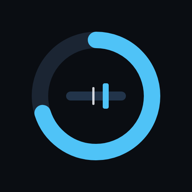
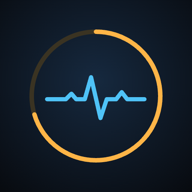
Icône cœur + anneau jaune, accueil libre en orientation, numéro de build
- Icône : ligne de battement de cœur bleue dans un anneau partiel jaune
  (SVG + PNG 192, 512, maskable).
- Accueil : lock('any') au démarrage et au retour de séance, pour ne pas
  rester verrouillé en paysage par l'ancien manifeste d'une appli installée.
- Numéro de build discret en bas de l'accueil (src/version.js, tamponné par
  npm run stamp avant chaque commit).

diff --git a/src/app.js b/src/app.js
@@ -11,6 +11,7 @@ import { createActivityFilter } from './activity.js';
 import { createSession } from './session.js';
 import { createStore } from './store.js';
 import { exportFile } from './export.js';
+import { BUILD, formatBuild } from './version.js';
 
 const DRAFT_EVERY_MS = 5000; // backup copy of the running session
 
@@ -101,7 +102,16 @@ async function lockLandscape() {
     await orientation?.lock?.('landscape');
   } catch { /* desktop browser or refused: the rotate hint shows in portrait */ }
 }
-const unlockOrientation = () => { try { window.screen.orientation?.unlock?.(); } catch { /* unsupported */ } };
+// Back to free rotation for the start screen. unlock() alone would fall back to the manifest's orientation,
+// which an already installed app may still carry as "landscape"; lock('any') overrides it explicitly.
+async function freeOrientation() {
+  const orientation = window.screen.orientation;
+  try {
+    await orientation?.lock?.('any');
+  } catch {
+    try { orientation?.unlock?.(); } catch { /* unsupported */ }
+  }
+}
 
 // ---------- Screens ----------
 const startEl = document.getElementById('start');
@@ -129,7 +139,7 @@ function goHome() {
   snapshot = {};
   clearInterval(draftTimer);
   keepAwake.stop();
-  unlockOrientation();
+  freeOrientation();
   source?.disconnect();
   source = null;
   screenEl.hidden = true;
@@ -281,6 +291,8 @@ if (isBleAvailable()) {
 // Simulator buttons: development only (?dev in the address).
 if (new URLSearchParams(location.search).has('dev')) document.getElementById('sim-choice').hidden = false;
 showLastSession();
+document.getElementById('build').textContent = formatBuild(BUILD);
+freeOrientation(); // the start screen follows the phone, even if the installed manifest still says landscape
 
 document.querySelectorAll('[data-sim]').forEach((btn) => btn.addEventListener('click', () => {
   startSimulator(btn.dataset.sim);

diff --git a/src/ui/styles.css b/src/ui/styles.css
@@ -155,7 +155,9 @@ html, body {
 .btn-connect svg { width: 1.1em; height: 1.1em; }
 .btn-connect:disabled { background: var(--panel); color: var(--muted); box-shadow: none; cursor: default; }
 .start-msg { margin: 0; min-height: 1.3em; max-width: 80vw; font-size: calc(4.2 * var(--u)); color: var(--warn); }
-.last-session { position: absolute; left: 0; right: 0; bottom: calc(4 * var(--u)); margin: 0; padding: 0 calc(4 * var(--u)); text-wrap: balance; min-height: 1.3em; font-size: calc(4.4 * var(--u)); color: var(--muted); font-variant-numeric: tabular-nums; }
+.last-session { position: absolute; left: 0; right: 0; bottom: calc(7 * var(--u)); margin: 0; padding: 0 calc(4 * var(--u)); text-wrap: balance; min-height: 1.3em; font-size: calc(4.4 * var(--u)); color: var(--muted); font-variant-numeric: tabular-nums; }
+.build { position: absolute; left: 0; right: 0; bottom: max(calc(2 * var(--u)), env(safe-area-inset-bottom)); margin: 0;
+  font-size: calc(2.9 * var(--u)); color: var(--muted); opacity: .55; font-variant-numeric: tabular-nums; }
 .last-session b { color: var(--text); font-weight: 600; }
 .sim-choice { position: fixed; top: calc(4 * var(--u)); right: max(calc(4 * var(--u)), env(safe-area-inset-right)); display: flex; gap: calc(1.5 * var(--u));
   align-items: center; font-size: calc(3.6 * var(--u)); color: var(--muted); }

diff --git a/scripts/stamp-version.js b/scripts/stamp-version.js
@@ -1,0 +1,13 @@
+// Writes src/version.js: build number = number of the commit about to be made, plus the current time.
+// Run it just before each commit: node scripts/stamp-version.js   (npm run stamp)
+import { execSync } from 'node:child_process';
+import { readFileSync, writeFileSync } from 'node:fs';
+
+const file = new URL('../src/version.js', import.meta.url);
+let number = 1;
+try { number = Number(execSync('git rev-list --count HEAD', { encoding: 'utf8' }).trim()) + 1; } catch { /* first commit */ }
+
+const stamp = `export const BUILD = { number: ${number}, at: '${new Date().toISOString()}' };`;
+const src = readFileSync(file, 'utf8').replace(/^export const BUILD = .*;$/m, stamp);
+writeFileSync(file, src);
+console.log(`version.js : ${stamp}`);

diff --git a/src/version.js b/src/version.js
@@ -1,0 +1,11 @@
+// Build stamp shown discreetly on the start screen, to know which version runs on the phone.
+// Rewritten by scripts/stamp-version.js before each commit: do not edit by hand.
+export const BUILD = { number: 38, at: '2026-11-15T21:10:20.478Z' };
+
+/** "build 14 · 15/11 21:34" (local time of the device). */
+export function formatBuild({ number, at }, locale = 'fr-FR') {
+  const d = new Date(at);
+  const day = d.toLocaleDateString(locale, { day: '2-digit', month: '2-digit' });
+  const time = d.toLocaleTimeString(locale, { hour: '2-digit', minute: '2-digit' });
+  return `build ${number} · ${day} ${time}`;
+}

diff --git a/test/version.test.js b/test/version.test.js
@@ -1,0 +1,12 @@
+import { test } from 'node:test';
+import assert from 'node:assert/strict';
+import { BUILD, formatBuild } from '../src/version.js';
+
+test('BUILD has a number and an ISO date', () => {
+  assert.ok(Number.isInteger(BUILD.number) && BUILD.number >= 0);
+  assert.ok(!Number.isNaN(Date.parse(BUILD.at)));
+});
+
+test('formatBuild: "build N · dd/mm hh:mm"', () => {
+  assert.match(formatBuild({ number: 14, at: '2026-11-15T20:34:00.000Z' }), /^build 14 · \d{2}\/\d{2} \d{2}:\d{2}$/);
+});

diff --git a/index.html b/index.html
@@ -36,6 +36,7 @@
       <p id="start-msg" class="start-msg" role="status"></p>
     </div>
     <p id="last-session" class="last-session"></p>
+    <p id="build" class="build"></p>
     <!-- Simulator: development only, shown with ?dev in the address. -->
     <div class="sim-choice" id="sim-choice" hidden>
       <span>Simulateur :</span>

diff --git a/CLAUDE.md b/CLAUDE.md
@@ -44,6 +44,7 @@ scripts/  phone-eval.js  sim-demo.js
   - `?dev` affiche les boutons du simulateur sur l'accueil ; `?sim=steady` (ou `hiit`, `startstop`, `rest`) démarre directement le simulateur ; `&speed=10` accélère (10 s simulées par seconde).
   - Maquettes : http://localhost:8080/docs/maquette-seance-libre.html (et `maquette-accueil.html`, `maquette-hiit.html`, `maquette-phases.html`).
 - Tests : `npm test` (= `node --test test/*.test.js`, runner intégré à Node, sans dépendance). Trames de test : `encodeRowerData` (`src/ftms-encoder.js`) et `test/helpers.js`.
+- Numéro de build (discret en bas de l'accueil : « build 38 · 15/11 22:09 ») : `npm run stamp` l'écrit dans `src/version.js` (n° = nombre de commits + 1, + l'heure). **À lancer juste avant chaque commit** pour que le numéro affiché sur le téléphone soit celui du commit ; un crochet Git `pre-commit` peut le faire tout seul (non installé : le dossier `.git/hooks` n'est pas versionné).
 - Capture d'une page à la taille du S23, sans téléphone :
   `"/Applications/Google Chrome.app/Contents/MacOS/Google Chrome" --headless=new --hide-scrollbars --force-device-scale-factor=3 --window-size=780,300 --screenshot=out.png "http://localhost:8080/?sim=steady"`
 - Démo du faux rameur en terminal : `node scripts/sim-demo.js [rest|steady|hiit] [secondes] [pas]`.
